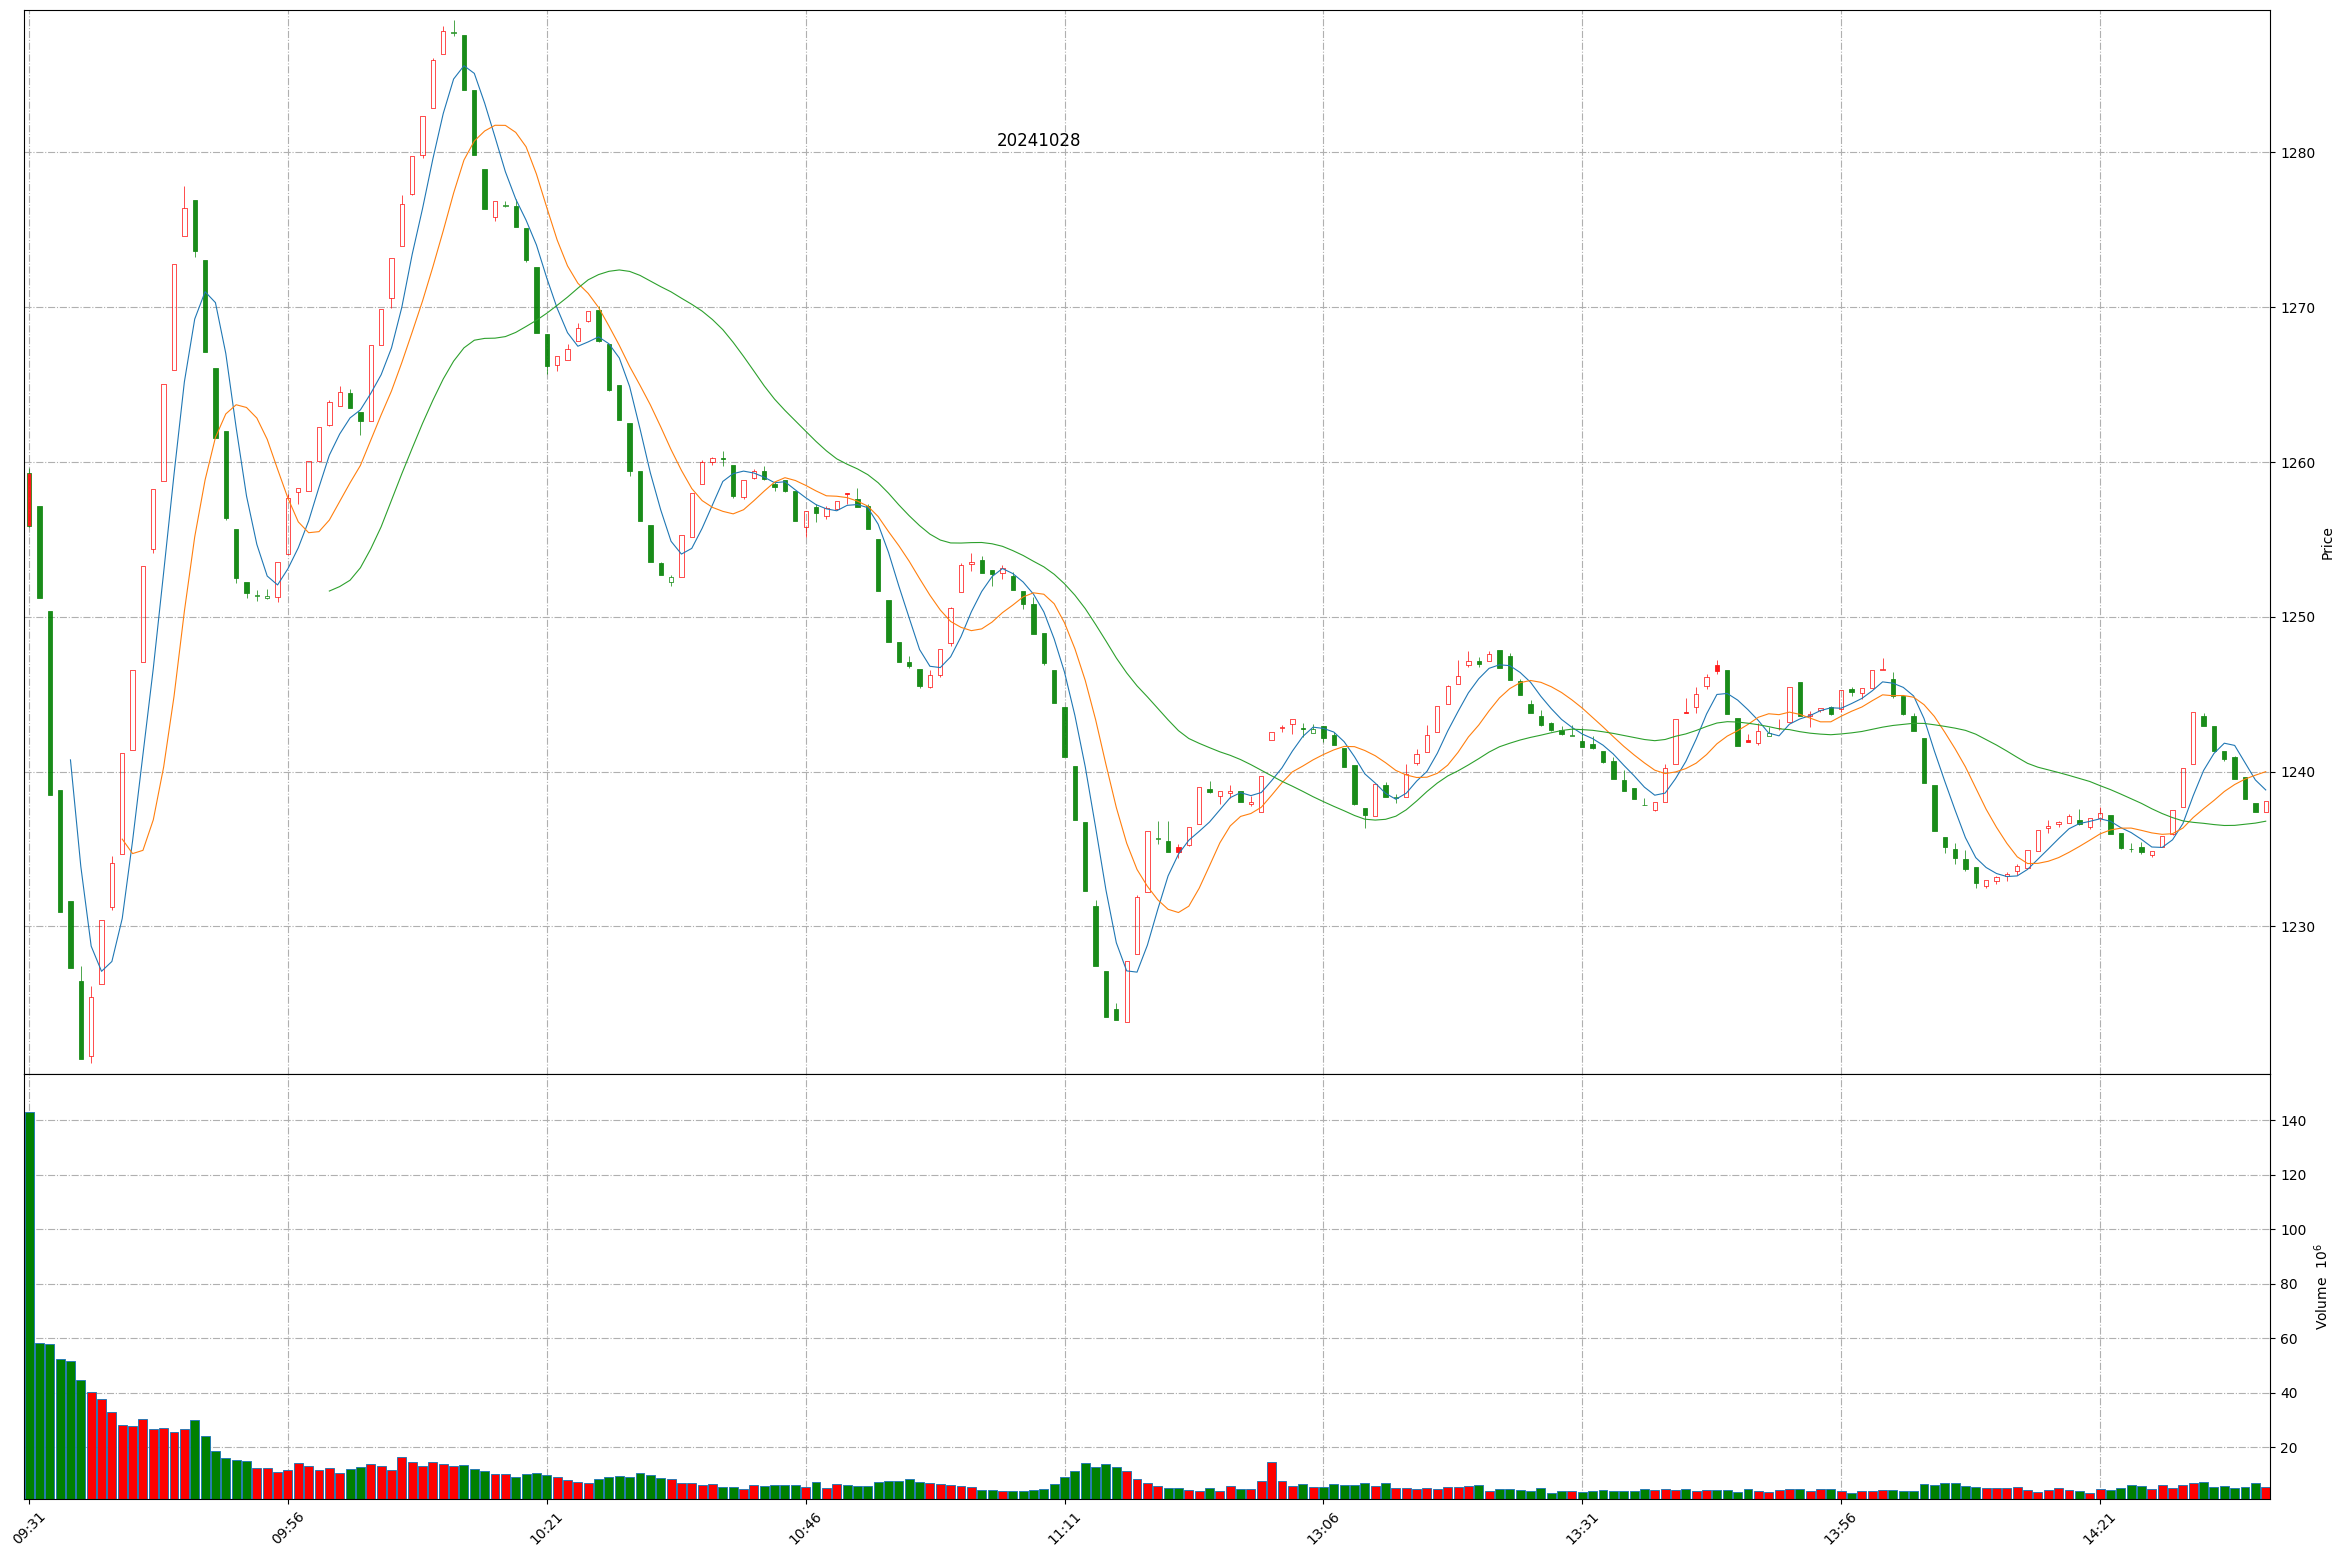
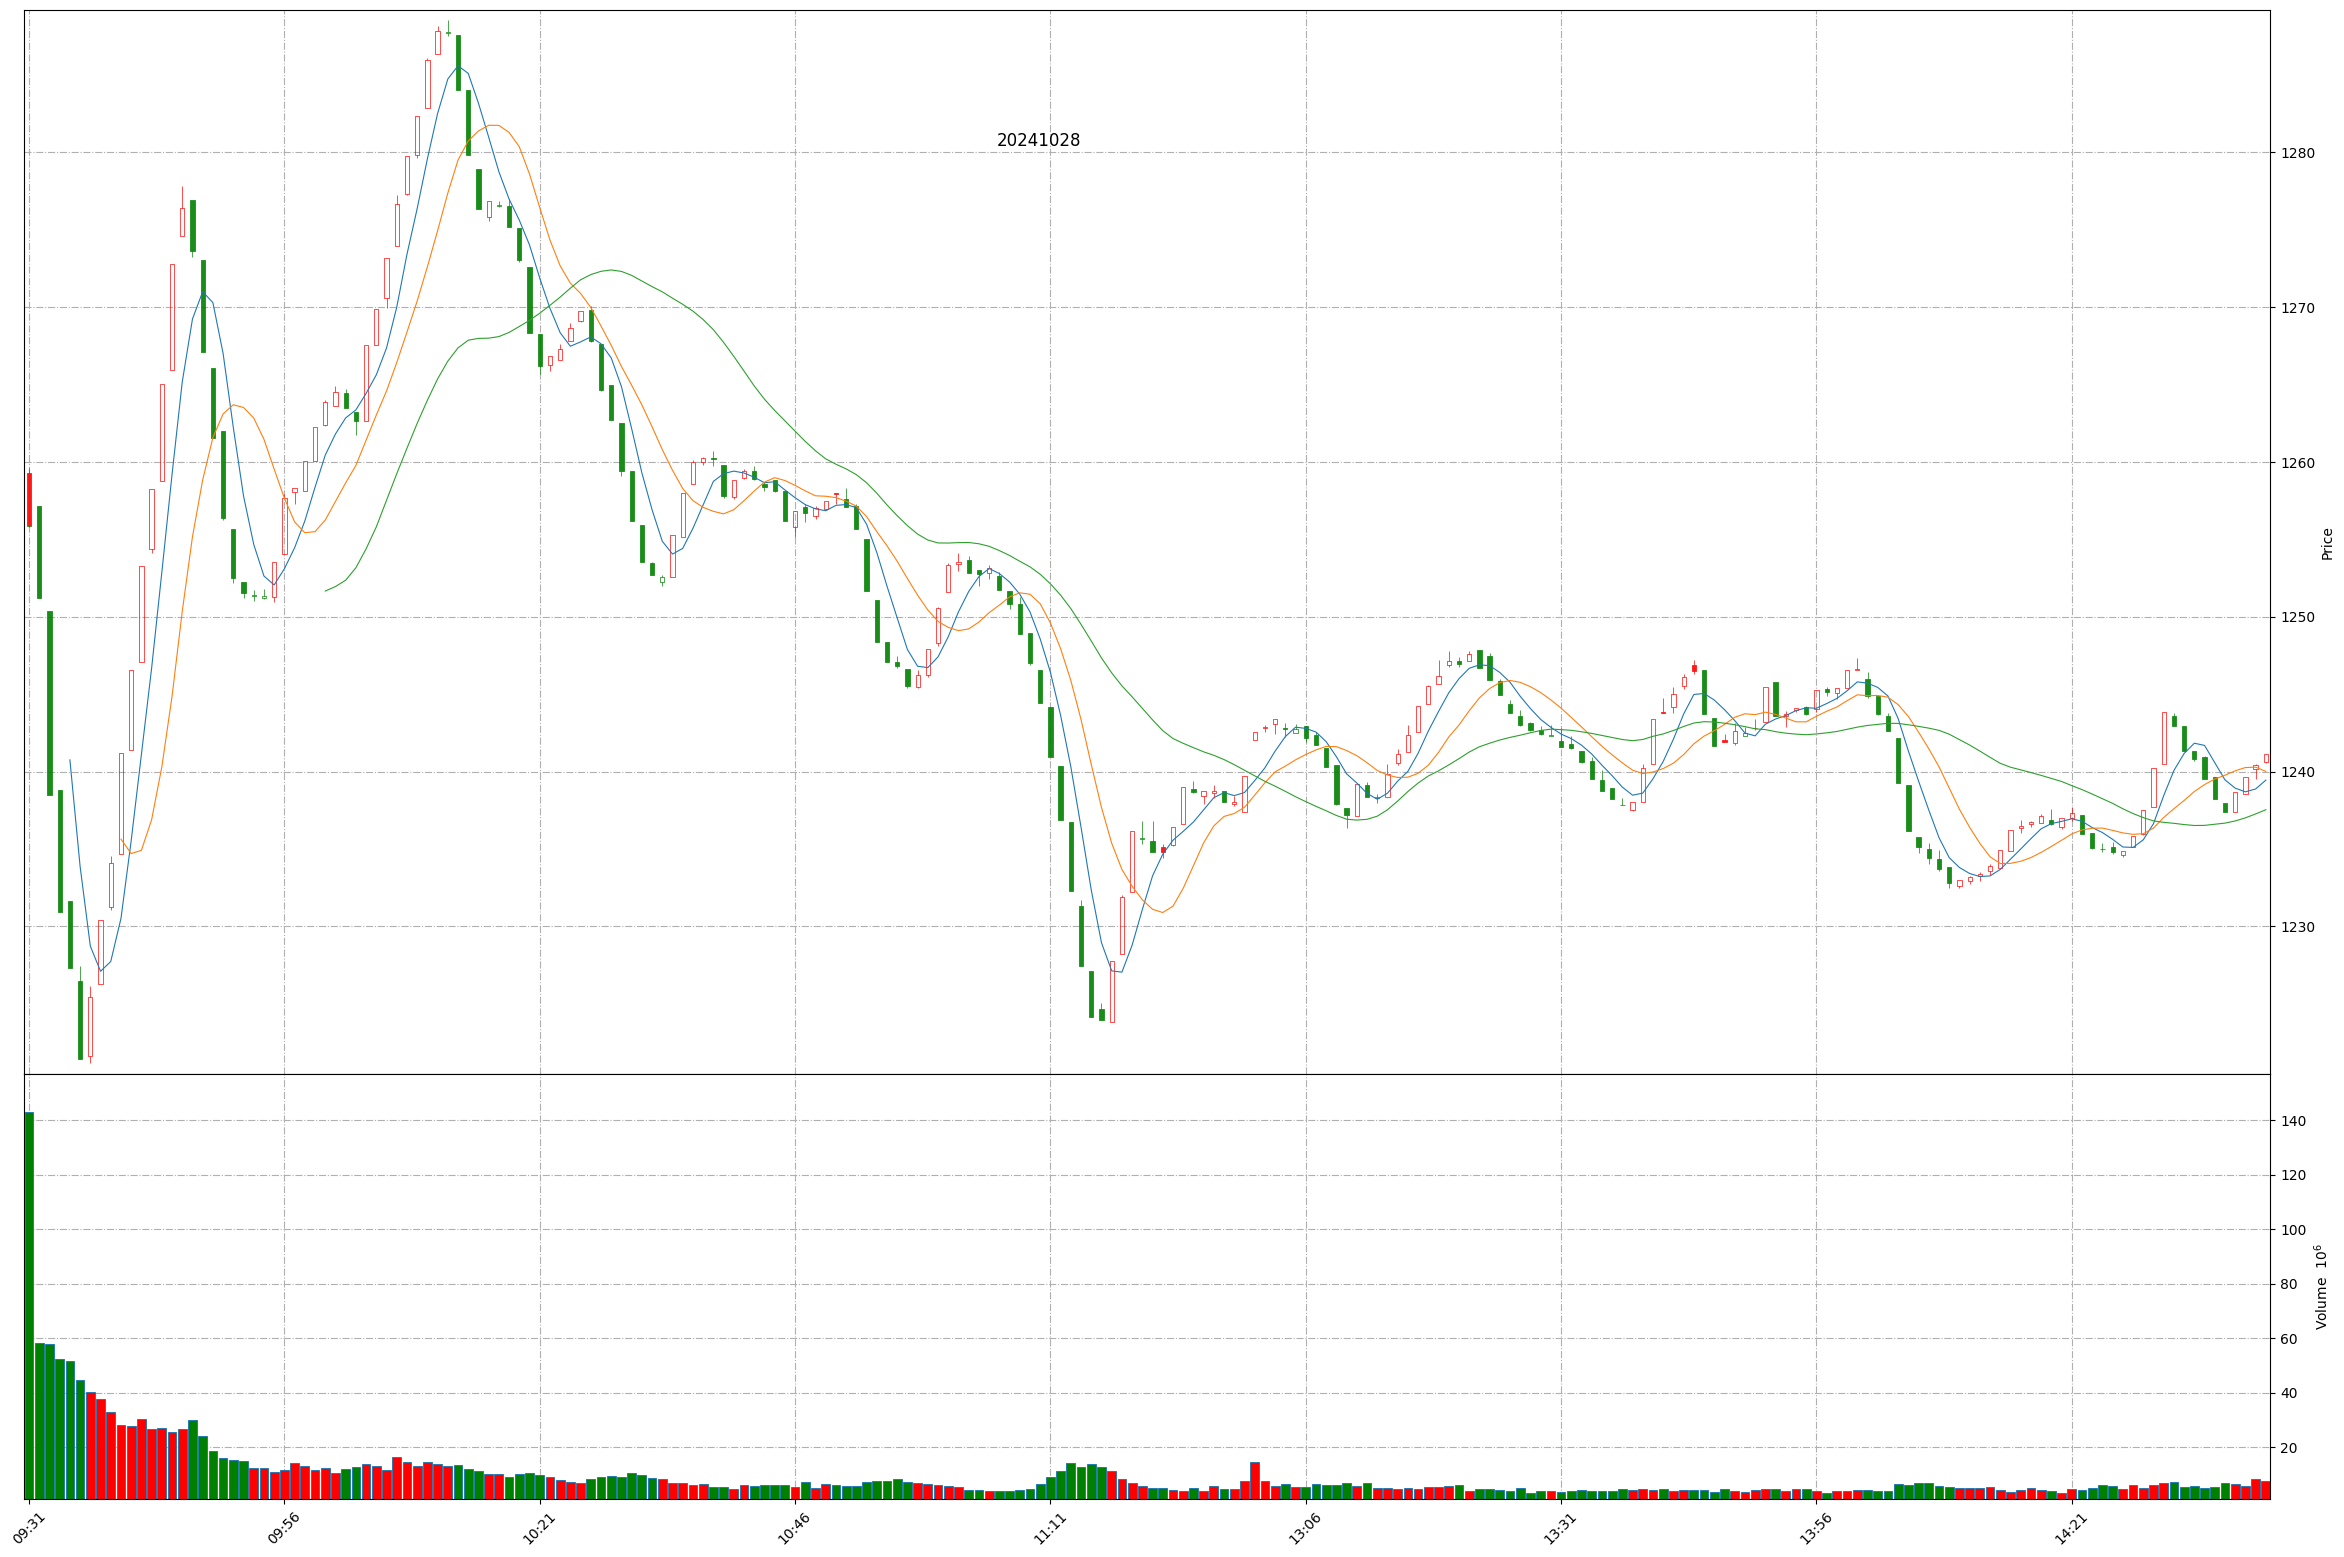
Github action update at 2024-10-28 14:40:00.

diff --git a/README.md b/README.md
@@ -1,11 +1,11 @@
 
 # Daily-A-share-market-quotes 每日 A 股指数（5min 更新）- 20241028
 
-### 上证指数 20241028 14:36
+### 上证指数 20241028 14:39
 ![](./fig/2024/10/20241028-sh000001.png)
 
-### 深证成指 20241028 14:36
+### 深证成指 20241028 14:39
 ![](./fig/2024/10/20241028-sz399001.png)
 
-### 北证50 20241028 14:36
+### 北证50 20241028 14:39
 ![](./fig/2024/10/20241028-bj899050.png)
